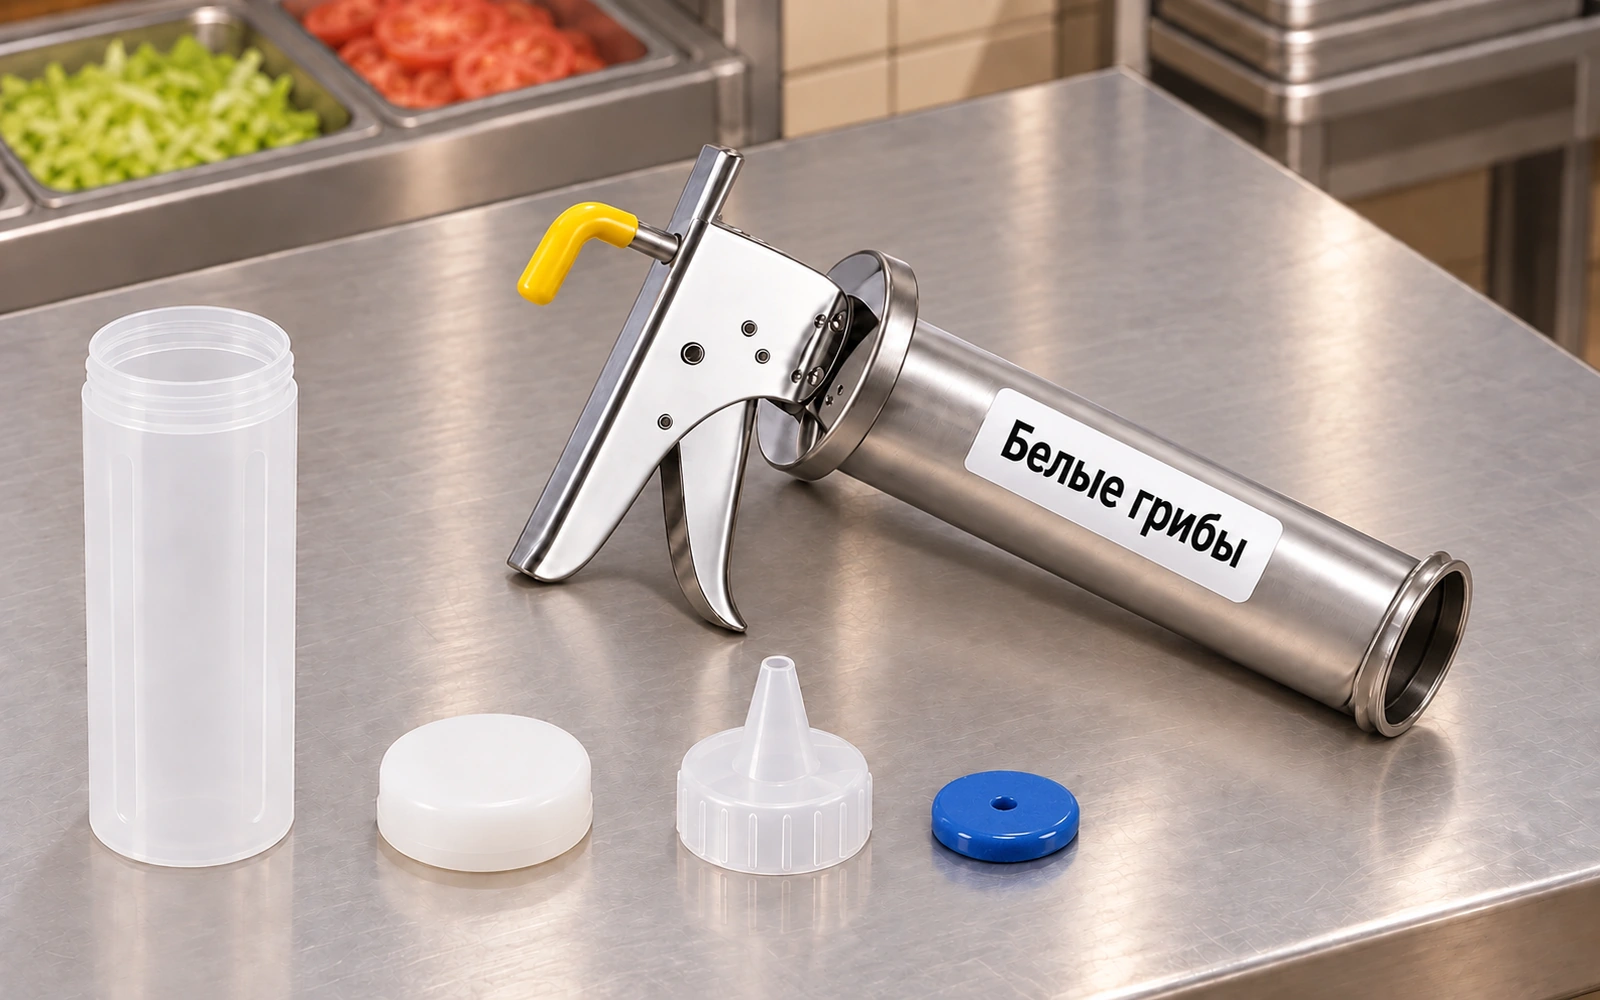
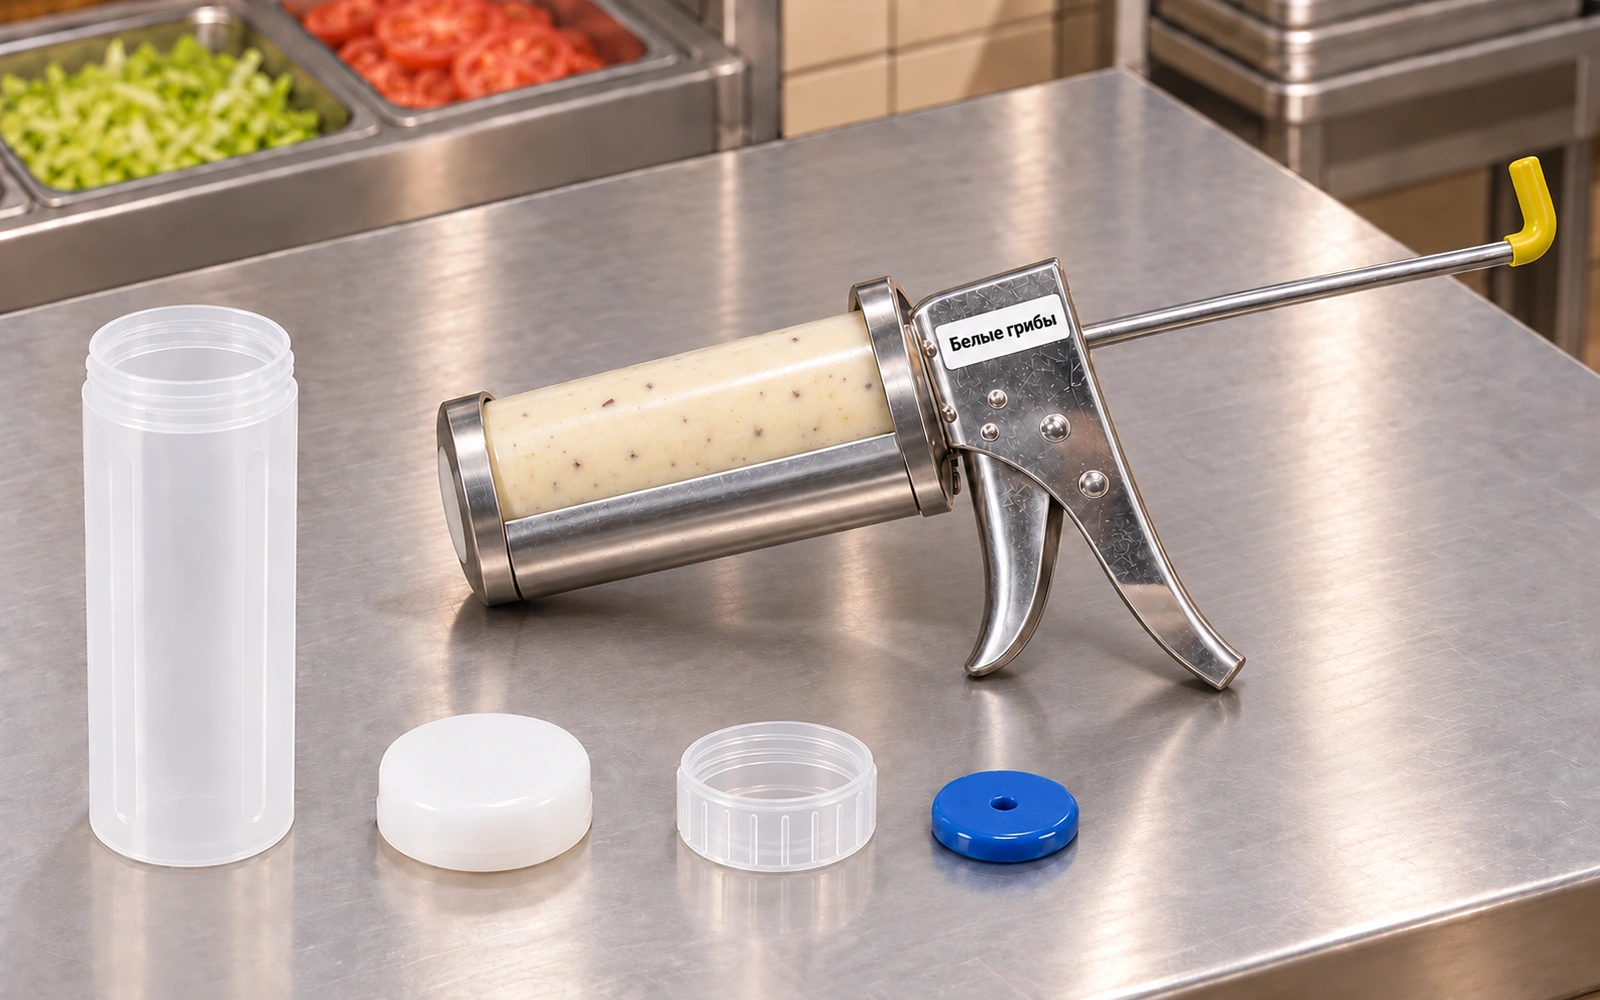
SCORM по tools/SCORM_QA_PRINCIPLES: завершение score → completed → passed → session_time → exit=logout → LMSFinish, suspend на выходе; scorm_id старого пакета; без неиспользуемого Montserrat

diff --git a/js/ku-scorm.js b/js/ku-scorm.js
@@ -286,15 +286,33 @@
   }
 
   /* ══ 6. ЗАВЕРШЕНИЕ — ТОЛЬКО КНОПКОЙ ═════════════════════════════════ */
+  /* Длительность сеанса для cmi.core.session_time — формат SCORM 1.2 HHHH:MM:SS.SS */
+  const SESSION_START = Date.now();
+  function sessionTime() {
+    const t = Math.max(0, (Date.now() - SESSION_START) / 1000);
+    const h = Math.floor(t / 3600), m = Math.floor((t % 3600) / 60), s = t % 60;
+    return String(h).padStart(4, "0") + ":" + String(m).padStart(2, "0") + ":" + s.toFixed(2).padStart(5, "0");
+  }
+
+  /* Завершение — единственное место, где курс ставит completed/passed (tools/SCORM_QA_PRINCIPLES.md, 1.5):
+     score.* → completed → passed → Commit → session_time → exit=logout → Commit → LMSFinish.
+     WebTutor ставит «флажок» прохождения и закрывает окно по passed; сессию закрываем сразу,
+     не дожидаясь beforeunload — в iframe LMS он часто не приходит. */
   function complete() {
+    if (state.completed && !lmsReady) return;      // уже завершён и сессия закрыта
     state.completed = true;
+    save();                                         // прогресс и suspend_data — до закрытия сессии
     if (lmsReady) {
-      // «passed» засчитывают как пройденный курс все LMS; «completed» некоторые оставляют «в процессе»
+      lmsSet("cmi.core.score.min", "0");
+      lmsSet("cmi.core.score.max", "100");
+      lmsSet("cmi.core.score.raw", "100");
+      lmsSet("cmi.core.lesson_status", "completed");
       lmsSet("cmi.core.lesson_status", "passed");
-      lmsSet("cmi.core.exit", "");                 // обычный выход: попытка закончена, не «на паузе»
+      lmsCommit();
+      lmsSet("cmi.core.session_time", sessionTime());
+      lmsSet("cmi.core.exit", "logout");
       lmsCommit();
     }
-    save();
     document.querySelectorAll("[data-ku-complete]").forEach((b) => {
       b.classList.add("is-completed");
       b.disabled = true;
@@ -365,11 +383,20 @@
           e.target.hasAttribute("data-ku-var")) renderReports();
     });
   });
-  window.addEventListener("beforeunload", () => {
-    // закрыли, не завершив: «suspend» — LMS сохранит прогресс и продолжит с того же места
-    if (lmsReady && !state.completed) lmsSet("cmi.core.exit", "suspend");
-    save(); lmsFinish();
-  });
+  // Ушли, не завершив: «suspend» — LMS сохранит прогресс и продолжит с того же места.
+  // pagehide надёжнее beforeunload (мобильные браузеры, iframe); lmsFinish срабатывает один раз.
+  function leave() {
+    if (!lmsReady) return;
+    save();
+    if (!state.completed) {
+      lmsSet("cmi.core.session_time", sessionTime());
+      lmsSet("cmi.core.exit", "suspend");
+      lmsCommit();
+    }
+    lmsFinish();
+  }
+  window.addEventListener("pagehide", leave);
+  window.addEventListener("beforeunload", leave);
 
   /* ══ ЭКСПОРТ ════════════════════════════════════════════════════════ */
   window.KU = {

diff --git a/css/base/fonts.css b/css/base/fonts.css
@@ -38,22 +38,8 @@
   unicode-range: U+0000-00FF, U+0131, U+0152-0153, U+2000-206F, U+2122, U+2212;
 }
 
-/* — Шрифт подраздела МС: Montserrat (переменный вес) —
-   Подключается для data-audience="ms" (см. tokens/subsections.css). */
-@font-face {
-  font-family: "Montserrat";
-  src: url("../../fonts/montserrat-cyrillic-wght-normal.woff2") format("woff2");
-  font-weight: 100 900;
-  font-display: swap;
-  unicode-range: U+0301, U+0400-045F, U+0490-0491, U+04B0-04B1, U+2116;
-}
-@font-face {
-  font-family: "Montserrat";
-  src: url("../../fonts/montserrat-latin-wght-normal.woff2") format("woff2");
-  font-weight: 100 900;
-  font-display: swap;
-  unicode-range: U+0000-00FF, U+0131, U+0152-0153, U+2000-206F, U+2122, U+2212;
-}
+/* Montserrat (подраздел МС, data-audience="ms") в этом курсе не нужен — не подключаем
+   и не кладём в пакет (tools/SCORM_QA_PRINCIPLES.md, 1.6). */
 
 /* — Семейства как токены (принцип reusable: шрифт = переменная) —
    Значения по умолчанию (БК-база). Подраздел переопределяет их в
